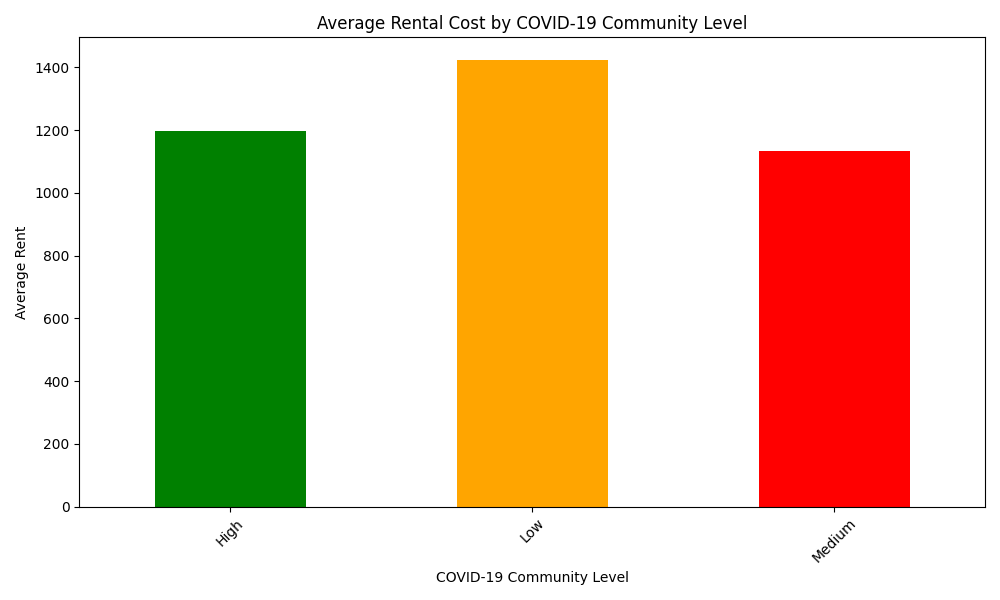
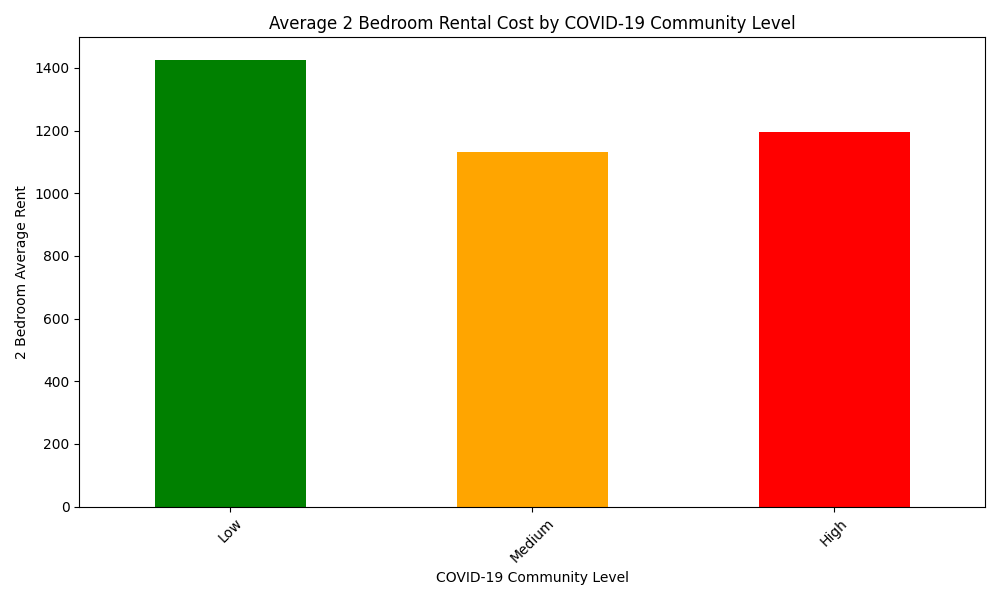
Update Visualizations 1 and 2

diff --git a/visualization.py b/visualization.py
@@ -1,6 +1,6 @@
 import pandas as pd
 import matplotlib.pyplot as plt
-# import seaborn as sns
+import seaborn as sns
 import sqlite3
 
 # Load the data from the processing script
@@ -33,7 +33,15 @@ data = pd.read_sql_query(query, conn)
 conn.close()
 
 # Visualization 1: Bar Chart of Average Rent by COVID-19 Level
-average_rent_by_covid = data.groupby('covid_19_community_level_id')['average_rent'].mean()
+level_mapping = {1: "Low", 2: "Medium", 3: "High"}
+data['covid_19_community_level'] = data['covid_19_community_level_id'].map(level_mapping)
+category_order = ["Low", "Medium", "High"]
+data['covid_19_community_level'] = pd.Categorical(
+    data['covid_19_community_level'], 
+    categories=category_order, 
+    ordered=True
+)
+average_rent_by_covid = data.groupby('covid_19_community_level')['average_rent'].mean()
 average_rent_by_covid.plot(kind='bar', color=['green', 'orange', 'red'], figsize=(10, 6))
 plt.title("Average 2 Bedroom Rental Cost by COVID-19 Community Level")
 plt.xlabel("COVID-19 Community Level")
@@ -44,18 +52,18 @@ plt.savefig("average_rent_bar_chart.png")
 plt.show()
 
 # Visualization 2: Scatter Plot of Median Income vs Rental Costs
-# plt.figure(figsize=(10, 6))
-# sns.scatterplot(
-#     data=data,
-#     x='median_income',
-#     y='average_rent',
-#     hue='covid_19_community_level_id',
-#     palette='coolwarm'
-# )
-# plt.title("Median Income vs Average 2 Bedroom Rent")
-# plt.xlabel("Median Income")
-# plt.ylabel("Average 2 Br Rent")
-# plt.legend(title="COVID-19 Level")
-# plt.tight_layout()
-# plt.savefig("income_vs_rent_scatter.png")
-# plt.show()
+plt.figure(figsize=(10, 6))
+sns.scatterplot(
+    data=data,
+    x='median_income',
+    y='average_rent',
+    hue='covid_19_community_level_id',
+    palette='coolwarm'
+)
+plt.title("Median Income vs Average 2 Bedroom Rent")
+plt.xlabel("Median Income")
+plt.ylabel("Average 2 Br Rent")
+plt.legend(title="COVID-19 Level")
+plt.tight_layout()
+plt.savefig("income_vs_rent_scatter.png")
+plt.show()
